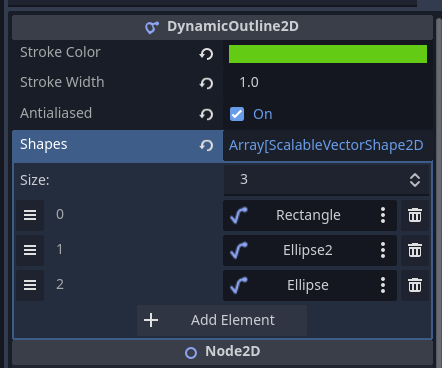
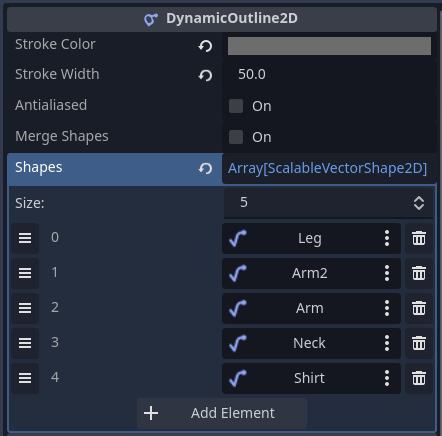
Merge pull request #326 from Teaching-myself-Godot/323-add-a-toggle-to-dynamicoutline2d-toggle-onoff-polygon-merging
fixes #323 making merging polygons opt-in via flag.

Pull request: fixes #323 making merging polygons opt-in via flag.

diff --git a/README.md b/README.md
@@ -864,10 +864,9 @@ Under `Tesselation settings` you can lower `Max Stages` or bump up `Tolerance De
 
 Version 2.25 adds a new `@tool` node `DynamicOutline2D`.
 
-⚠️ WARNING: this node is too slow to use for animations at any significant scale because it calls `Geometry2D.merge_polygons` multiple times per render. You can draw multiple `Line2D` behind their fills to achieve the same visual effect.
+With this tool you can assign multiple shapes and draw their outline strokes in batch.
 
-
-With this node you can give multiple shapes _one_ outline that uses `Geometry2D.merge_polygons` under the hood. 
+When `merge_shapes` is flagged on it uses `Geometry2D.merge_polygons` under the hood to make the strokes not intersect.
 
 ![example of `DynamicOutline2D` in the viewport](./addons/curved_lines_2d/screenshots/dynamic-outline-2d.png)
 
@@ -876,8 +875,8 @@ This node does not have all the `Line2D` options, but does have these 3 stroke p
 - `stroke_color`
 - `stroke_width`
 - `antialiased`: which adds a basic antialiasing which is shipped via the builting `CanvasItem.draw_polyline(..)` function
-
-An `shapes : Array[ScalableVectorShape2D]` holds the shapes which are given an outline (or multiple outlines when they're separate):
+- `merge_shapes`: toggle this on to merge the outlines being drawn ( ⚠️ this will slow down performance significantly. Ideally draw the outline behind the solids without merging)
+- `shapes : Array[ScalableVectorShape2D]` holds the shapes which are given an outline:
 
 ![`DynamicOutline2D` in the inspector](./addons/curved_lines_2d/screenshots/dynamic-outline-2d-inspector.png)
 

diff --git a/addons/curved_lines_2d/README.md b/addons/curved_lines_2d/README.md
@@ -737,7 +737,6 @@ This form allows for rigging your shape by assigning a `Skeleton2D` node:
 - Bone: an optionally assigned `Bone2D` node. If assigned, the bone will control the position and rotation of this shape. In this case the curve will not be deformed by the skeleton.
 - Deformation Map: a Dictionary telling the shape which point must be deformed by which bone.
 
-
 ## The Editor settings inspector form
 
 This form exposes 2 settings:
@@ -865,9 +864,9 @@ Under `Tesselation settings` you can lower `Max Stages` or bump up `Tolerance De
 
 Version 2.25 adds a new `@tool` node `DynamicOutline2D`.
 
-⚠️ WARNING: this node is too slow to use for animations at any significant scale because it calls `Geometry2D.merge_polygons` multiple times per render. You can draw multiple `Line2D` behind their fills to achieve the same visual effect.
+With this tool you can assign multiple shapes and draw their outline strokes in batch.
 
-With this node you can give multiple shapes _one_ outline that uses `Geometry2D.merge_polygons` under the hood. 
+When `merge_shapes` is flagged on it uses `Geometry2D.merge_polygons` under the hood to make the strokes not intersect.
 
 ![example of `DynamicOutline2D` in the viewport](./screenshots/dynamic-outline-2d.png)
 
@@ -876,8 +875,8 @@ This node does not have all the `Line2D` options, but does have these 3 stroke p
 - `stroke_color`
 - `stroke_width`
 - `antialiased`: which adds a basic antialiasing which is shipped via the builting `CanvasItem.draw_polyline(..)` function
-
-An `shapes : Array[ScalableVectorShape2D]` holds the shapes which are given an outline (or multiple outlines when they're separate):
+- `merge_shapes`: toggle this on to merge the outlines being drawn ( ⚠️ this will slow down performance significantly. Ideally draw the outline behind the solids without merging)
+- `shapes : Array[ScalableVectorShape2D]` holds the shapes which are given an outline:
 
 ![`DynamicOutline2D` in the inspector](./screenshots/dynamic-outline-2d-inspector.png)
 

diff --git a/CHANGELOG.md b/CHANGELOG.md
@@ -1,5 +1,11 @@
 # Changelog
 
+## 2.26.0
+
+### Added
+
+- You can now toggle off `merge_shapes` in `DynamicOutline2D`, which fixes all performance issues but polylines will simply interect (when drawing behind a shape it's still very useful)
+
 ## 2.25.4
 
 ⚠️ Small notice on the new skeleton rigging features: Shapes that have a `Bone2D` assigned for the entire shape may show displacement on an initial run. Saving the scene once (even without the * indicator) should fix this.